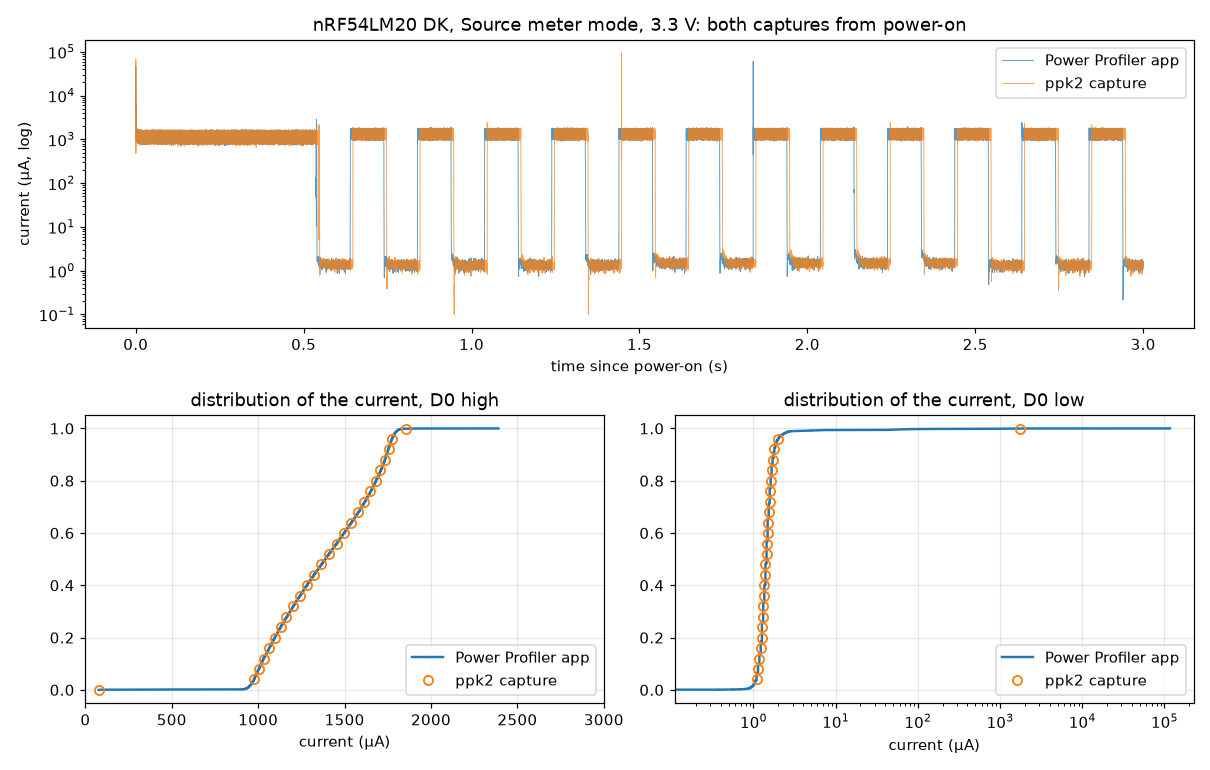
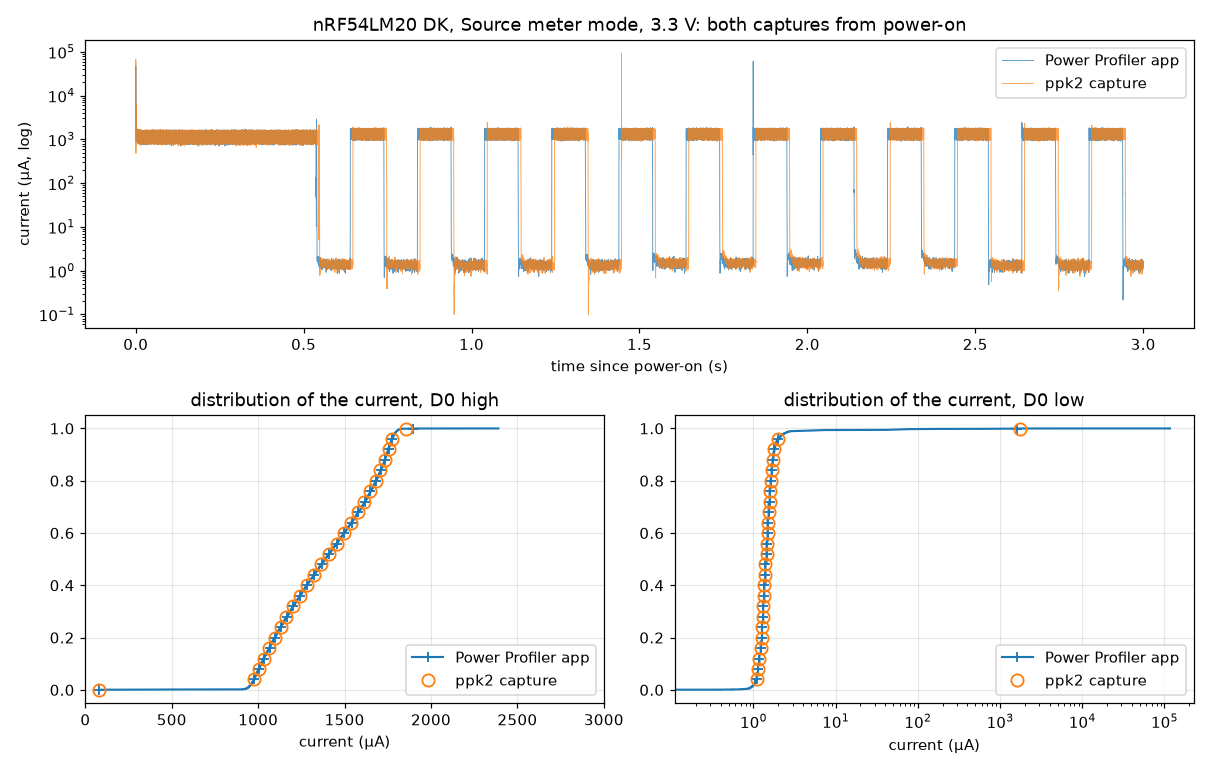
docs(validation): crosses on the app's distribution too
25 of each at the same ranks: a cross inside a circle is where the
two agree.

diff --git a/validation/evidence/bench_dut/make_plots.py b/validation/evidence/bench_dut/make_plots.py
@@ -33,12 +33,14 @@ LABELS = (("app", "Power Profiler app"), ("ppk2_1", "ppk2 capture"))
 def ecdf(ax: plt.Axes, samples: np.ndarray, label: str, *, as_markers: bool) -> None:
     """Plot the empirical CDF of ``samples``, thinned to 20,000 points.
 
-    The two captures lie on each other, so one is a line and the other
-    25 open markers, evenly spaced along the distribution.
+    The two captures lie on each other, so one is a line with crosses
+    and the other open circles, 25 of each at the same ranks: a cross
+    inside a circle is where the two agree.
     """
     xs = np.sort(samples)
     xs = xs[:: max(1, len(xs) // 20_000)]
     ys = np.arange(len(xs)) / len(xs)
+    every = max(1, len(xs) // 25)
     if as_markers:
         ax.plot(
             xs,
@@ -46,14 +48,24 @@ def ecdf(ax: plt.Axes, samples: np.ndarray, label: str, *, as_markers: bool) -> 
             label=label,
             linestyle="none",
             marker="o",
-            markersize=6,
+            markersize=8,
             markerfacecolor="none",
             markeredgewidth=1.2,
-            markevery=max(1, len(xs) // 25),
+            markevery=every,
             color="C1",
         )
     else:
-        ax.plot(xs, ys, label=label, linewidth=1.6, color="C0")
+        ax.plot(
+            xs,
+            ys,
+            label=label,
+            linewidth=1.4,
+            marker="+",
+            markersize=7,
+            markeredgewidth=1.2,
+            markevery=every,
+            color="C0",
+        )
 
 
 LEAK_UA = 20_000  # a sample above this at a wake-up is one the spike filter left in
